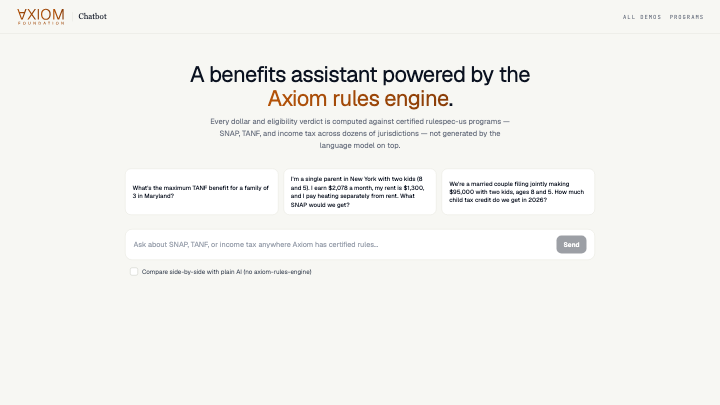
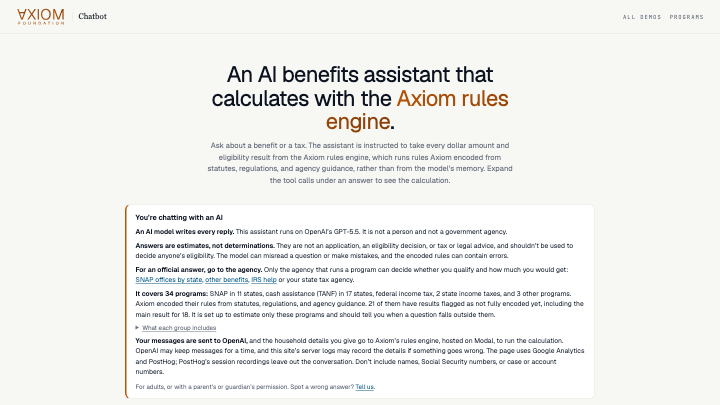
Describe the chatbot without accuracy or certification claims
The site described the chatbot as "Get accurate answers" (nav), "Ground
truth for AI … verifiable answers grounded in actual law" (landing card),
"AI assistants grounded in cited rules" (/demos description), and as
powered by "the sealed SNAP US 2026 program" (/docs figure label). The
landing poster itself showed the chatbot's old hero: "Every dollar and
eligibility verdict is computed against certified rulespec-us programs".

The chatbot is an OpenAI model with tool access to the rules engine; 23
of its 34 headline outputs carry no legal id, 18 are flagged incomplete,
and the certified ledger is empty (finbot-snap-demo catalog,
api.axiom.org/v1/ready).

- nav: "Ask about benefits and taxes" (shared with the shell tile).
- landing card 02: "Rules a model can call"; demo label "Benefits and
  tax chatbot".
- /demos: description and intro no longer claim cited-rule grounding or
  one shared encoding for every demo.
- /docs figure aria-label: an illustrative SNAP program that surfaces
  call.
- demo posters: chatbot.png from finbot-snap-demo#34 (0364548) and
  gallery.png from the axiom-demo-shell chatbot-copy-accuracy branch,
  both rendered locally with the posters:capture settings.
- tests: nav, landing and /demos fail on accurate/certified/verified/
  official/ground-truth wording.

Changed region(s): [[0.1528, 0.5333, 0.825, 0.9778], [0.1833, 0.1481, 0.7944, 0.5333]]

diff --git a/src/components/landing/landing.test.tsx b/src/components/landing/landing.test.tsx
@@ -93,6 +93,28 @@ describe('Landing sections', () => {
     expect(text).not.toMatch(/experts? (verify|review|check)/i)
   })
 
+  // The AI-labs card links the chatbot: an OpenAI model with tool access to
+  // the rules engine, used for US benefit and tax estimates (finbot-snap-demo
+  // src/lib/model.ts, src/lib/tools.ts). 23 of its 34 headline outputs carry
+  // no legal id and 18 are flagged incomplete, so no card may promise
+  // accurate, certified, or verifiable answers.
+  it('describes the chatbot without accuracy or certification claims', () => {
+    const { container } = render(<ApplicationsSection />)
+    const labels = [...container.querySelectorAll('[aria-label], [title]')].map(
+      (el) => `${el.getAttribute('aria-label') ?? ''} ${el.getAttribute('title') ?? ''}`,
+    )
+    const text = [container.textContent ?? '', ...labels].join(' ')
+
+    expect(text).not.toMatch(/ground truth/i)
+    expect(text).not.toMatch(/\baccurate\b/i)
+    expect(text).not.toMatch(/\b(certified|verified|official)\b/i)
+    expect(text).not.toMatch(/verifiable answers?/i)
+    expect(text).not.toMatch(/every answer/i)
+    expect(
+      screen.getByRole('link', { name: /open demo: benefits and tax chatbot/i }),
+    ).toHaveAttribute('href', '/demos?d=chatbot')
+  })
+
   it('serves the four demo previews as posters, not live iframes, off desktop', () => {
     // Regression for the mobile-Safari crash guard: with the default
     // non-desktop media environment, no card may mount a live app
@@ -119,7 +141,7 @@ describe('Landing sections', () => {
       screen.getByRole('heading', { name: /calculators that audit themselves/i }),
     ).toBeInTheDocument()
     expect(
-      screen.getByRole('heading', { name: /ground truth for AI/i }),
+      screen.getByRole('heading', { name: /rules a model can call/i }),
     ).toBeInTheDocument()
     expect(
       screen.getByRole('heading', { name: /reform without rewriting/i }),

diff --git a/src/components/docs/flat-strip.tsx b/src/components/docs/flat-strip.tsx
@@ -126,7 +126,7 @@ export function FlatStrip() {
         className="lsk"
         viewBox="0 96 1420 368"
         role="img"
-        aria-label="The Axiom pipeline as five equal stations. The intake: scraping pipelines (eCFR, USLM, state codes, laws-lois) fill the database — nothing ever leaves. The corpus: the whole law word for word, 1,742,391 provisions, § 2017 pulled forward. One provision at a time feeds the encoding loop, where encoders draft (30 per centum becomes 0.30) and validators — deterministic checks, oracles, AI judge — catch and teach across 7.7M runs. The RuleSpec snap_allotment plugs into the rules graph — tfp and income feed it, benefit flows out — which compiles into the sealed SNAP US 2026 program, powering the chatbot, dashboards, and APIs."
+        aria-label="The Axiom pipeline as five equal stations. The intake: scraping pipelines (eCFR, USLM, state codes, laws-lois) fill the database — nothing ever leaves. The corpus: the whole law word for word, 1,742,391 provisions, § 2017 pulled forward. One provision at a time feeds the encoding loop, where encoders draft (30 per centum becomes 0.30) and validators — deterministic checks, oracles, AI judge — catch and teach across 7.7M runs. The RuleSpec snap_allotment plugs into the rules graph — tfp and income feed it, benefit flows out — which compiles into an illustrative SNAP program that application surfaces call: a chatbot, dashboards, and APIs."
       >
         {/* ── THE INTAKE ── */}
         <Station x={IN} title="the intake" sub="hundreds of official sources">

diff --git a/packages/ui/src/__tests__/nav.test.tsx b/packages/ui/src/__tests__/nav.test.tsx
@@ -49,7 +49,7 @@ describe("Nav", () => {
     // The small company checker was pulled from the gallery.
     expect(screen.queryByText("Small company checker")).not.toBeInTheDocument();
     expect(
-      screen.getAllByText("Get accurate answers")[0].closest("a"),
+      screen.getAllByText("Ask about benefits and taxes")[0].closest("a"),
     ).toHaveAttribute("href", "/demos?d=chatbot");
     expect(
       screen.getAllByText("Explore benefits cliffs")[0].closest("a"),
@@ -58,6 +58,18 @@ describe("Nav", () => {
       "href",
       "/demos",
     );
+  });
+
+  // Nav labels are public claims about the demos. The chatbot is an OpenAI
+  // model with tool access to the rules engine, giving estimates
+  // (finbot-snap-demo), so no label may promise accurate, certified, or
+  // official answers.
+  it("makes no accuracy or certification claims in demo labels", () => {
+    const { container } = render(<Nav />);
+    const text = container.textContent ?? "";
+    expect(text).not.toMatch(/\baccurate\b/i);
+    expect(text).not.toMatch(/\b(certified|verified|official)\b/i);
+    expect(text).not.toMatch(/ground truth/i);
   });
 
   it("renders the Axiom Foundation logo", () => {

diff --git a/src/app/demos/page.tsx b/src/app/demos/page.tsx
@@ -5,7 +5,7 @@ import { Reveal } from "@/components/landing/reveal";
 export const metadata: Metadata = {
   title: "Live demos — Axiom Foundation",
   description:
-    "Applications running on the Axiom encodings: statutes computed in your browser, AI assistants grounded in cited rules, and policy tools built on the open layer.",
+    "Applications running on the Axiom encodings: statutes computed in your browser, an AI chat demo with tool access to the rules engine, and policy tools built on the open layer.",
 };
 
 /**
@@ -57,7 +57,7 @@ export default async function DemosPage({ searchParams }: PageProps) {
           </span>
           <h1 className="heading-page mb-6 mt-2">Built on the open layer</h1>
           <p className="font-body text-[1.2rem] text-[var(--color-ink-secondary)] leading-relaxed text-pretty">
-            Every demo runs on the same published encodings &mdash; the
+            The demos run on Axiom&apos;s published encodings &mdash; the
             statute text, the RuleSpec rules, and the citations connecting
             them. What one encoding powers, anyone can build.
           </p>

diff --git a/src/app/demos/demos.test.tsx b/src/app/demos/demos.test.tsx
@@ -53,4 +53,18 @@ describe('DemosPage', () => {
   it('keeps the page metadata', () => {
     expect(metadata.title).toMatch(/live demos/i)
   })
+
+  // The search snippet and intro describe the chatbot too. It is an OpenAI
+  // model with tool access to the rules engine, and most of its headline
+  // outputs carry no legal id (finbot-snap-demo catalog), so neither may say
+  // the assistants are grounded in cited rules or that every demo shares
+  // one encoding.
+  it('describes the demos without overstating the chatbot', async () => {
+    const { container } = render(await DemosPage(props()))
+    const text = `${String(metadata.description)} ${container.textContent ?? ''}`
+    expect(text).not.toMatch(/grounded in cited rules/i)
+    expect(text).not.toMatch(/every demo runs on the same/i)
+    expect(text).not.toMatch(/\b(certified|verified|accurate|official)\b/i)
+    expect(String(metadata.description)).toMatch(/tool access to the rules engine/i)
+  })
 })

diff --git a/src/components/landing/applications-section.tsx b/src/components/landing/applications-section.tsx
@@ -27,12 +27,12 @@ const APPLICATIONS = [
   },
   {
     n: "02",
-    title: "Ground truth for AI",
+    title: "Rules a model can call",
     body:
-      "People keep asking models policy questions. The Axiom Foundation gives them a key — verifiable answers grounded in actual law, useful for both training and inference.",
+      "People keep asking models policy questions. Encoded rules give a model something to call for the numbers, with the legal source linked where one is recorded — useful for both training and inference.",
     actor: "for AI labs",
     demo: {
-      label: "A grounded assistant",
+      label: "Benefits and tax chatbot",
       href: "/demos?d=chatbot",
       src: "https://axiom.org/chatbot",
       poster: "/demo-posters/chatbot.png",

diff --git a/src/components/nav.test.tsx b/src/components/nav.test.tsx
@@ -76,7 +76,7 @@ describe('Nav', () => {
     mockUsePathname.mockReturnValue('/')
     render(<NavClient />)
     expect(screen.getAllByText('Build a form').length).toBeGreaterThan(0)
-    expect(screen.getAllByText('Get accurate answers').length).toBeGreaterThan(0)
+    expect(screen.getAllByText('Ask about benefits and taxes').length).toBeGreaterThan(0)
     expect(screen.getAllByText('Explore benefits cliffs').length).toBeGreaterThan(0)
     expect(screen.getAllByText('All demos').length).toBeGreaterThan(0)
   })

diff --git a/packages/ui/src/components/nav.tsx b/packages/ui/src/components/nav.tsx
@@ -73,7 +73,7 @@ const DEFAULT_LINKS: NavLink[] = [
       {
         label: "Ground AI models in citable law",
         items: [
-          { href: "/demos?d=chatbot", label: "Get accurate answers" },
+          { href: "/demos?d=chatbot", label: "Ask about benefits and taxes" },
         ],
       },
       {
